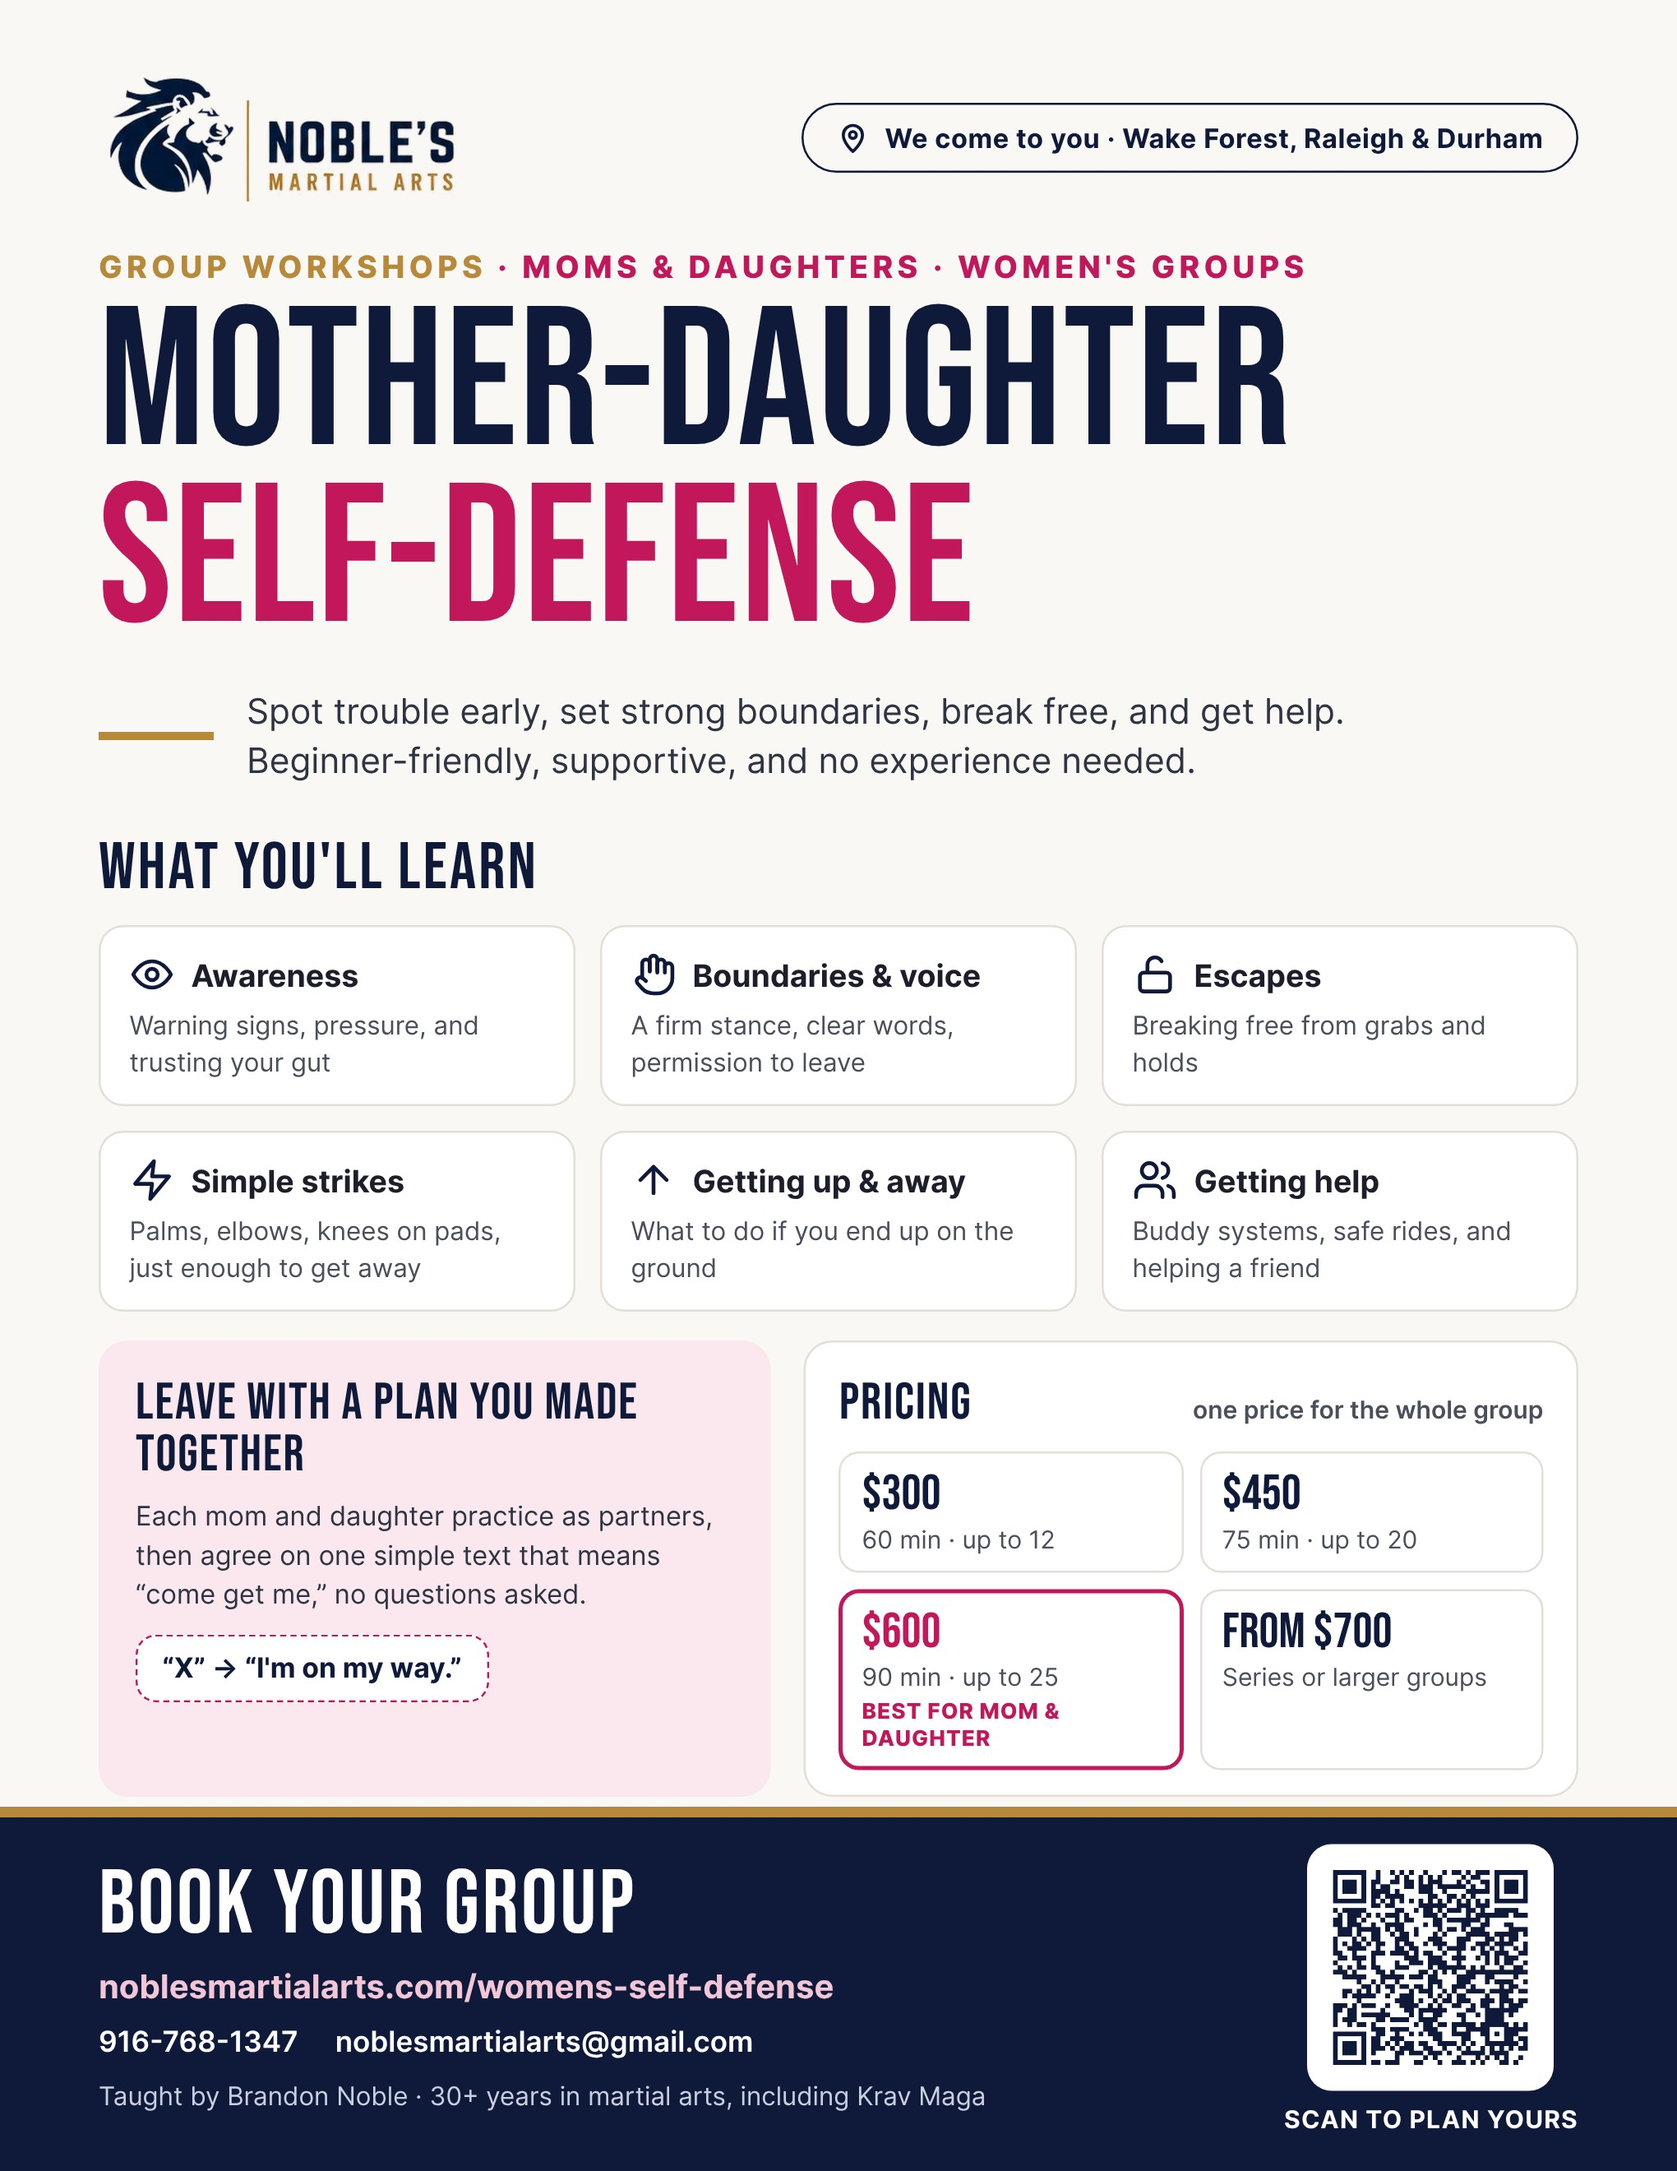
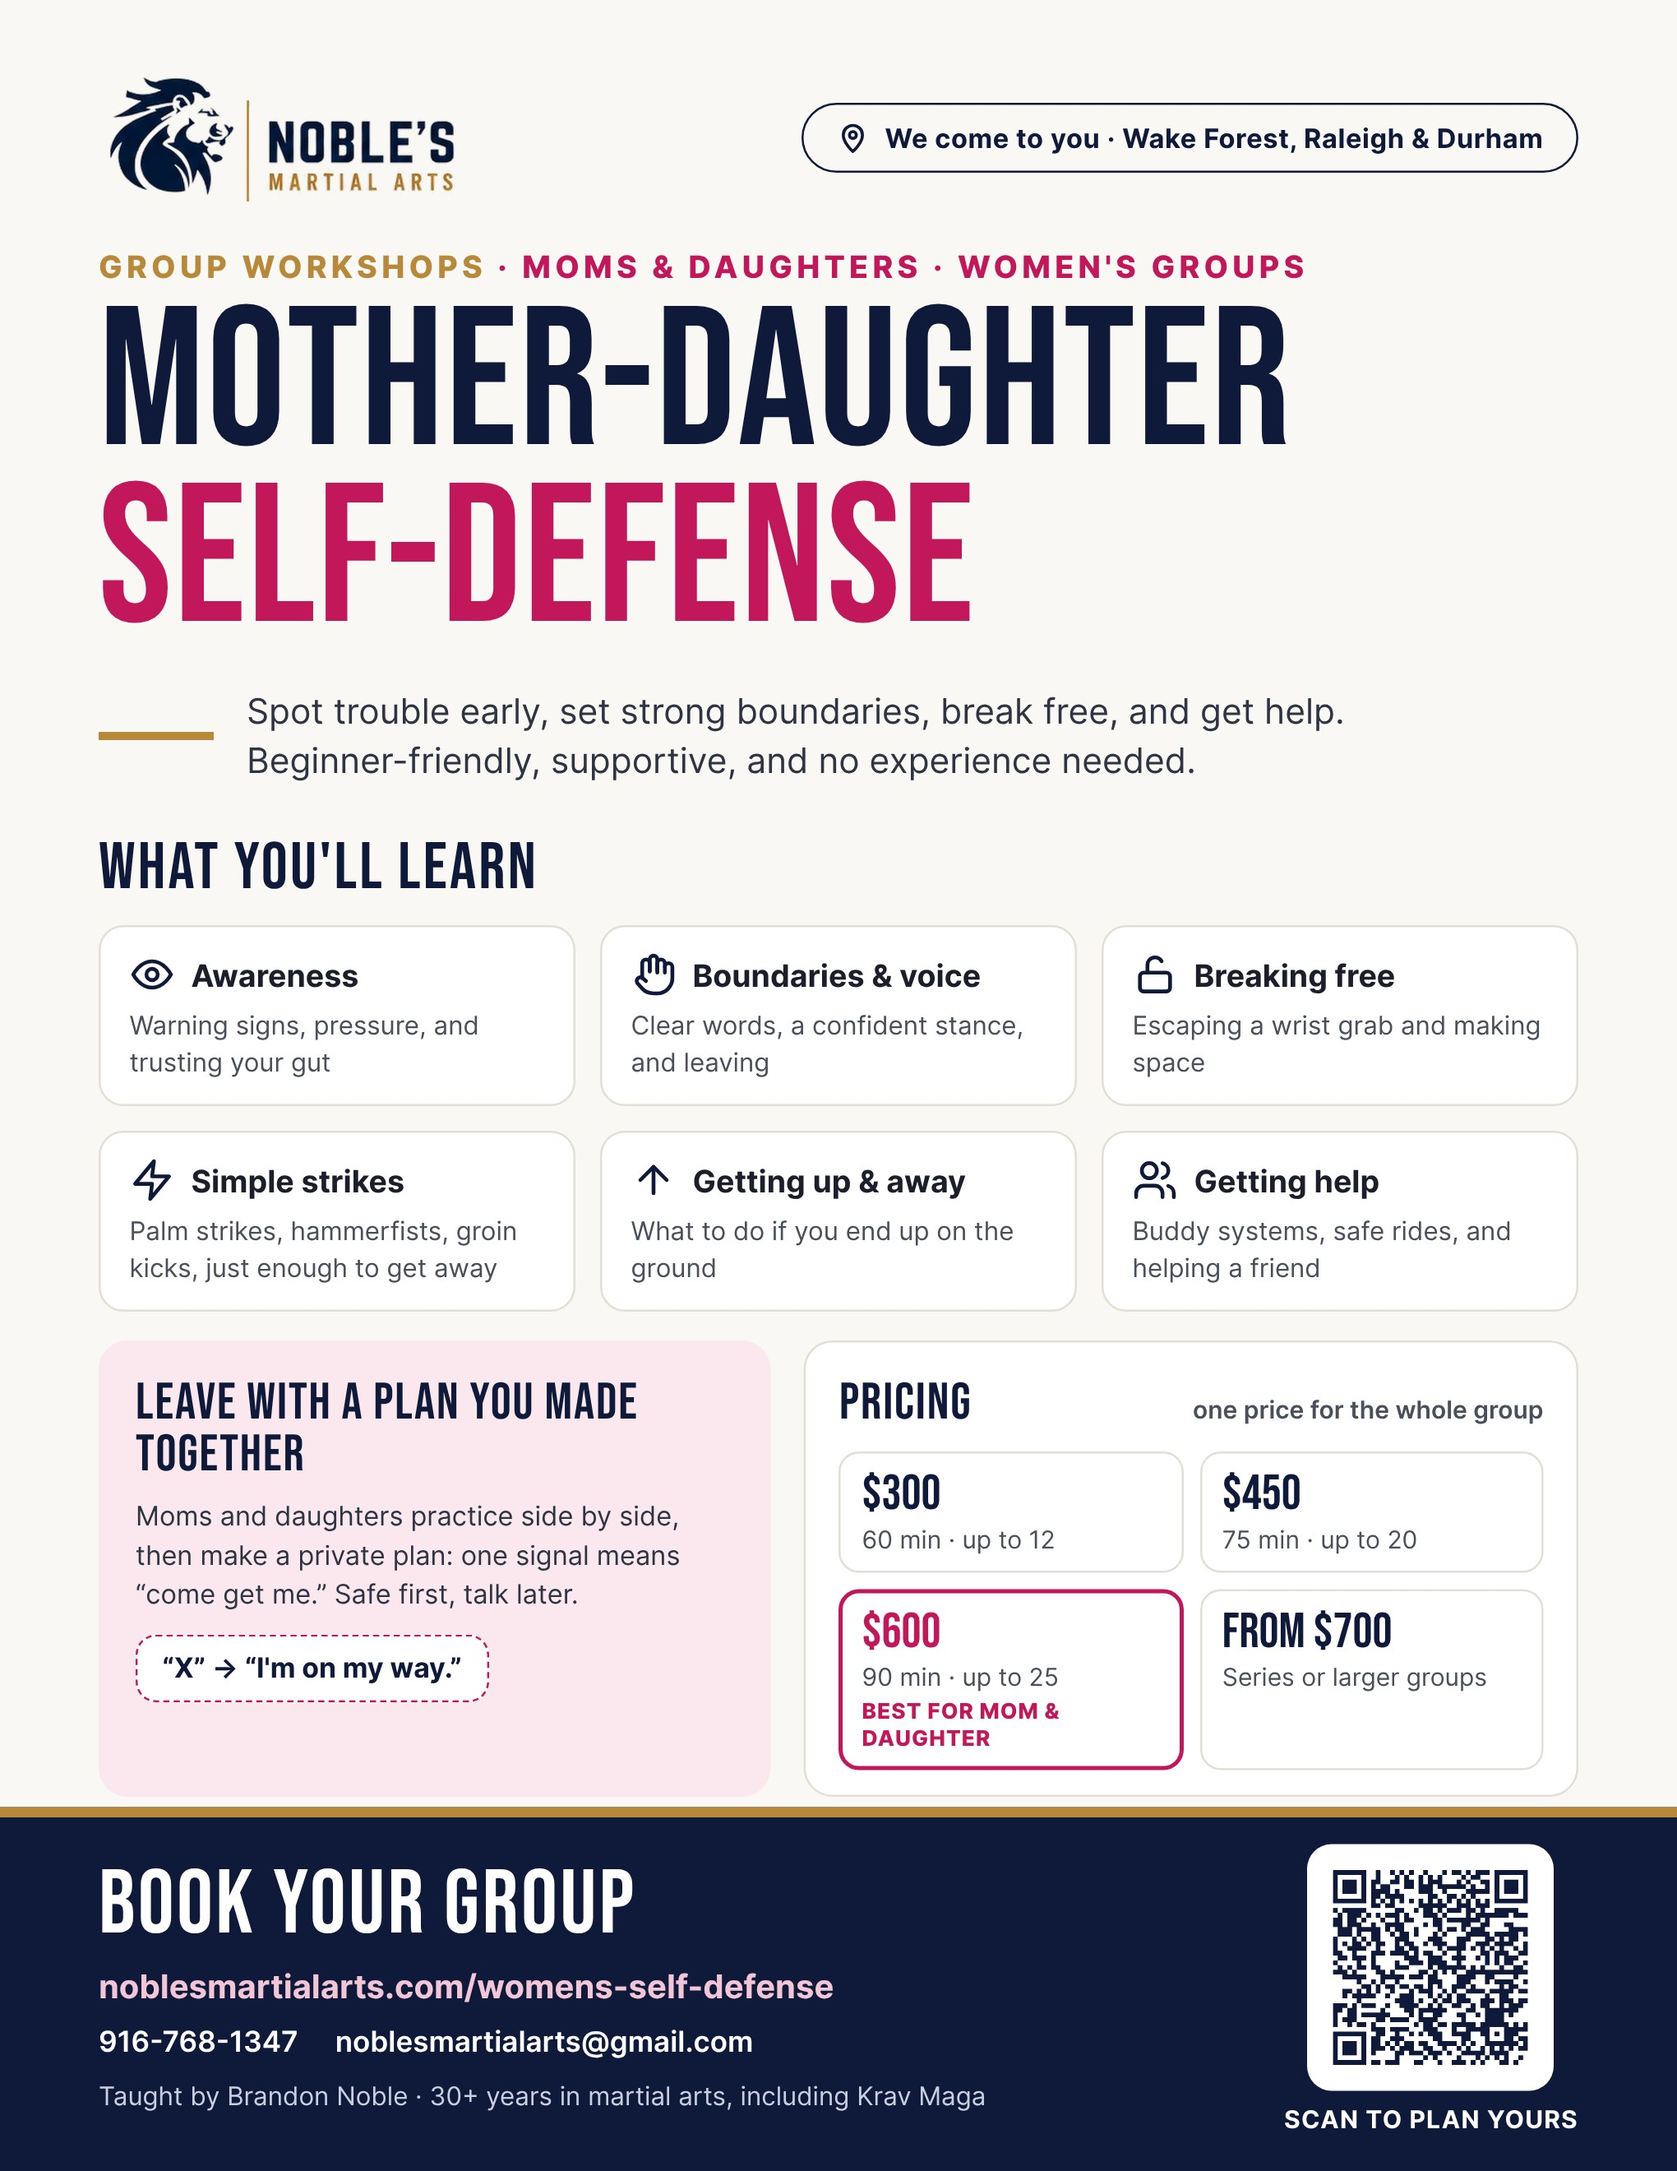
Women's page and flyer: match the final January curriculum
What You'll Learn now lists palm strikes, hammerfists, groin kicks, wrist-grab
escape, and making space (no elbows, knees, hair grabs, or holds); the safety plan
is a private family agreement (safe first, talk later). Flyer PDF/JPG re-exported.

Claude-Session: https://claude.ai/code/session_012YGSpScXEE2mDAZ7sYz61W

diff --git a/womens-self-defense.html b/womens-self-defense.html
@@ -40,7 +40,7 @@
    "name": "Women's & Mother-Daughter Self-Defense Workshop",
    "serviceType": "Self-defense class",
    "url": "https://noblesmartialarts.com/womens-self-defense",
-   "description": "Beginner-friendly self-defense workshop for moms and teen daughters, women's groups, and friends: situational awareness, boundaries, escapes from grabs and holds, getting up and away, and a family safety plan.",
+   "description": "Beginner-friendly self-defense workshop for moms and teen daughters, women's groups, and friends: situational awareness, boundaries and voice, simple strikes, escaping a wrist grab, getting up and away, and a family safety agreement.",
    "provider": {
     "@id": "https://noblesmartialarts.com/#business"
    },
@@ -118,7 +118,7 @@
      "name": "Is it right for teens and their moms together?",
      "acceptedAnswer": {
       "@type": "Answer",
-      "text": "Yes — that's the format this workshop is built around. Each mom and daughter practice as partners, and the session ends with a simple safety plan you make together. It works just as well for women's groups and friends."
+      "text": "Yes — that's the format this workshop is built around. Moms and daughters usually practice as partners, and the session ends with a private safety agreement you make together. It works just as well for women's groups and friends."
      }
     },
     {
@@ -397,9 +397,9 @@ try{
     </div>
     <div class="check-list">
       <div class="check-item"><span class="ic">👀</span><div class="txt"><b>Awareness &amp; Early Warning Signs</b><span>Spotting pressure, isolation, and situations that are starting to feel wrong — and trusting that feeling</span></div></div>
-      <div class="check-item"><span class="ic">✋</span><div class="txt"><b>Boundaries &amp; a Strong Voice</b><span>A firm stance, clear words, and permission to be loud, "rude," and leave</span></div></div>
-      <div class="check-item"><span class="ic">🔓</span><div class="txt"><b>Escapes From Grabs &amp; Holds</b><span>Wrist, arm, clothing, and hair grabs, and being held from the front or behind</span></div></div>
-      <div class="check-item"><span class="ic">🥊</span><div class="txt"><b>Simple Strikes That Create Space</b><span>Palm strikes, elbows, knees, and kicks on pads — just enough to break free</span></div></div>
+      <div class="check-item"><span class="ic">✋</span><div class="txt"><b>Boundaries &amp; a Strong Voice</b><span>Clear words, a confident stance, and knowing that quietly leaving counts too</span></div></div>
+      <div class="check-item"><span class="ic">🔓</span><div class="txt"><b>Breaking Free &amp; Making Space</b><span>Escaping a wrist grab, and what to do when someone crowds or corners you</span></div></div>
+      <div class="check-item"><span class="ic">🥊</span><div class="txt"><b>Simple Strikes That Create Space</b><span>Palm strikes, hammerfists, and groin kicks on pads — just enough to create a chance to get away</span></div></div>
       <div class="check-item"><span class="ic">⬆</span><div class="txt"><b>Getting Up &amp; Getting Away</b><span>What to do if you end up on the ground, and how to stand up safely</span></div></div>
       <div class="check-item"><span class="ic">📱</span><div class="txt"><b>Getting Help &amp; Helping a Friend</b><span>Buddy systems, safe rides home, and what to do when a friend is in trouble</span></div></div>
     </div>
@@ -412,7 +412,7 @@ try{
     </div>
     <div class="plan">
       <h3>You'll leave with a plan you made together</h3>
-      <p>Every mom and daughter pair practices as partners, then sets up a simple pickup plan before heading home: one agreed text means "come get me," and the deal is no questions asked that night.</p>
+      <p>Moms and daughters practice side by side, then make a private family safety agreement before heading home: one signal that means "come get me," and a promise that getting safe comes first. You can talk about it later, when everyone is calm.</p>
       <div class="code">📲 "X" → "I'm on my way."</div>
     </div>
   </section>
@@ -490,7 +490,7 @@ try{
       <h2 class="disp">Questions</h2>
     </div>
       <details class="faq"><summary>Do we need any martial arts experience?</summary><p>No. The workshop is built for complete beginners — moms, teens, and women who have never thrown a punch. Everything is taught step by step.</p></details>
-      <details class="faq"><summary>Is it right for teens and their moms together?</summary><p>Yes — that's the format this workshop is built around. Each mom and daughter practice as partners, and the session ends with a simple safety plan you make together. It works just as well for women's groups and friends.</p></details>
+      <details class="faq"><summary>Is it right for teens and their moms together?</summary><p>Yes — that's the format this workshop is built around. Moms and daughters usually practice as partners, and the session ends with a private safety agreement you make together. It works just as well for women's groups and friends.</p></details>
       <details class="faq"><summary>Is there sparring or hard contact?</summary><p>No sparring. Techniques are practiced with control, on pads and with your partner, and anyone can sit out or modify any drill at any time — no explanation needed.</p></details>
       <details class="faq"><summary>What should we wear and bring?</summary><p>Comfortable workout clothes, sneakers (or bare feet on mats), a water bottle, and hair tied back. Please leave rings and other jewelry at home.</p></details>
       <details class="faq"><summary>Where does the workshop happen?</summary><p>We come to you — a church hall, school gym, studio, or community room in Wake Forest, Raleigh, Durham, and surrounding areas. Not sure where to host? Ask and we'll help figure it out.</p></details>
